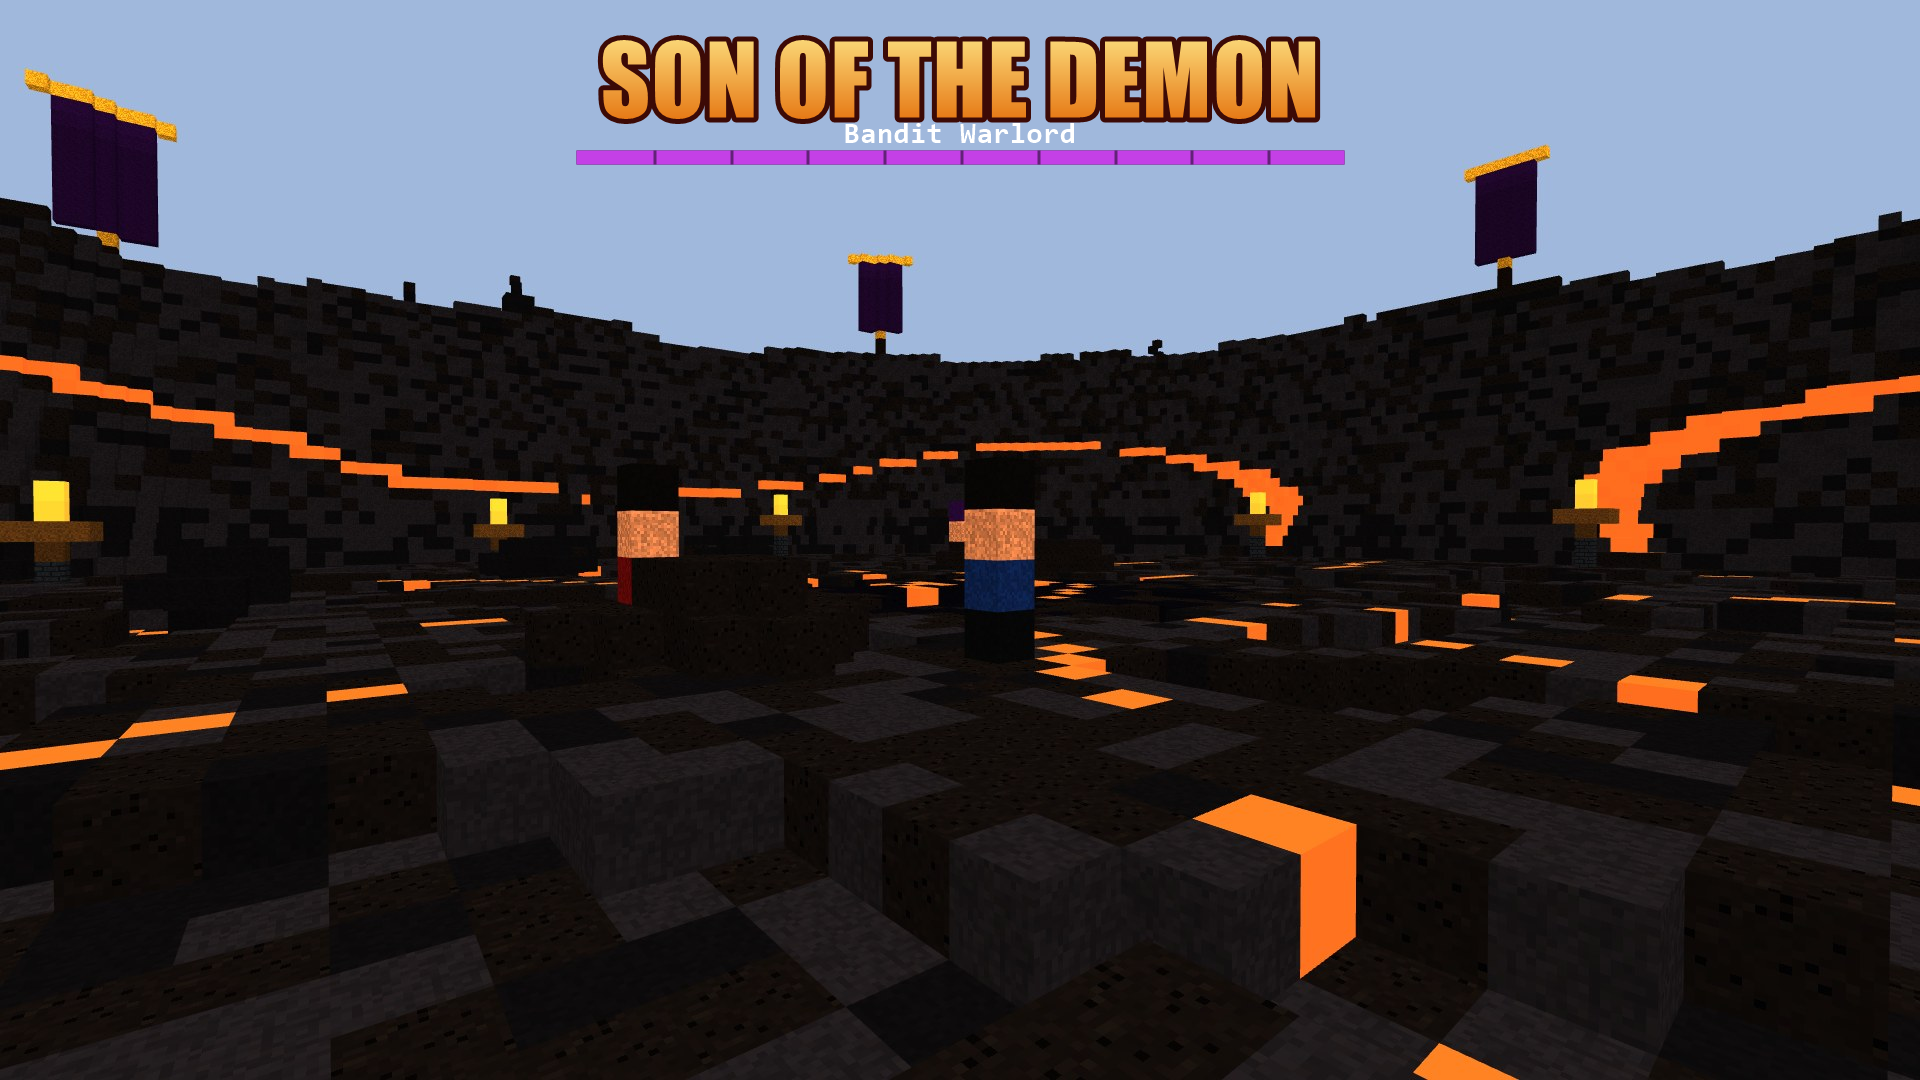
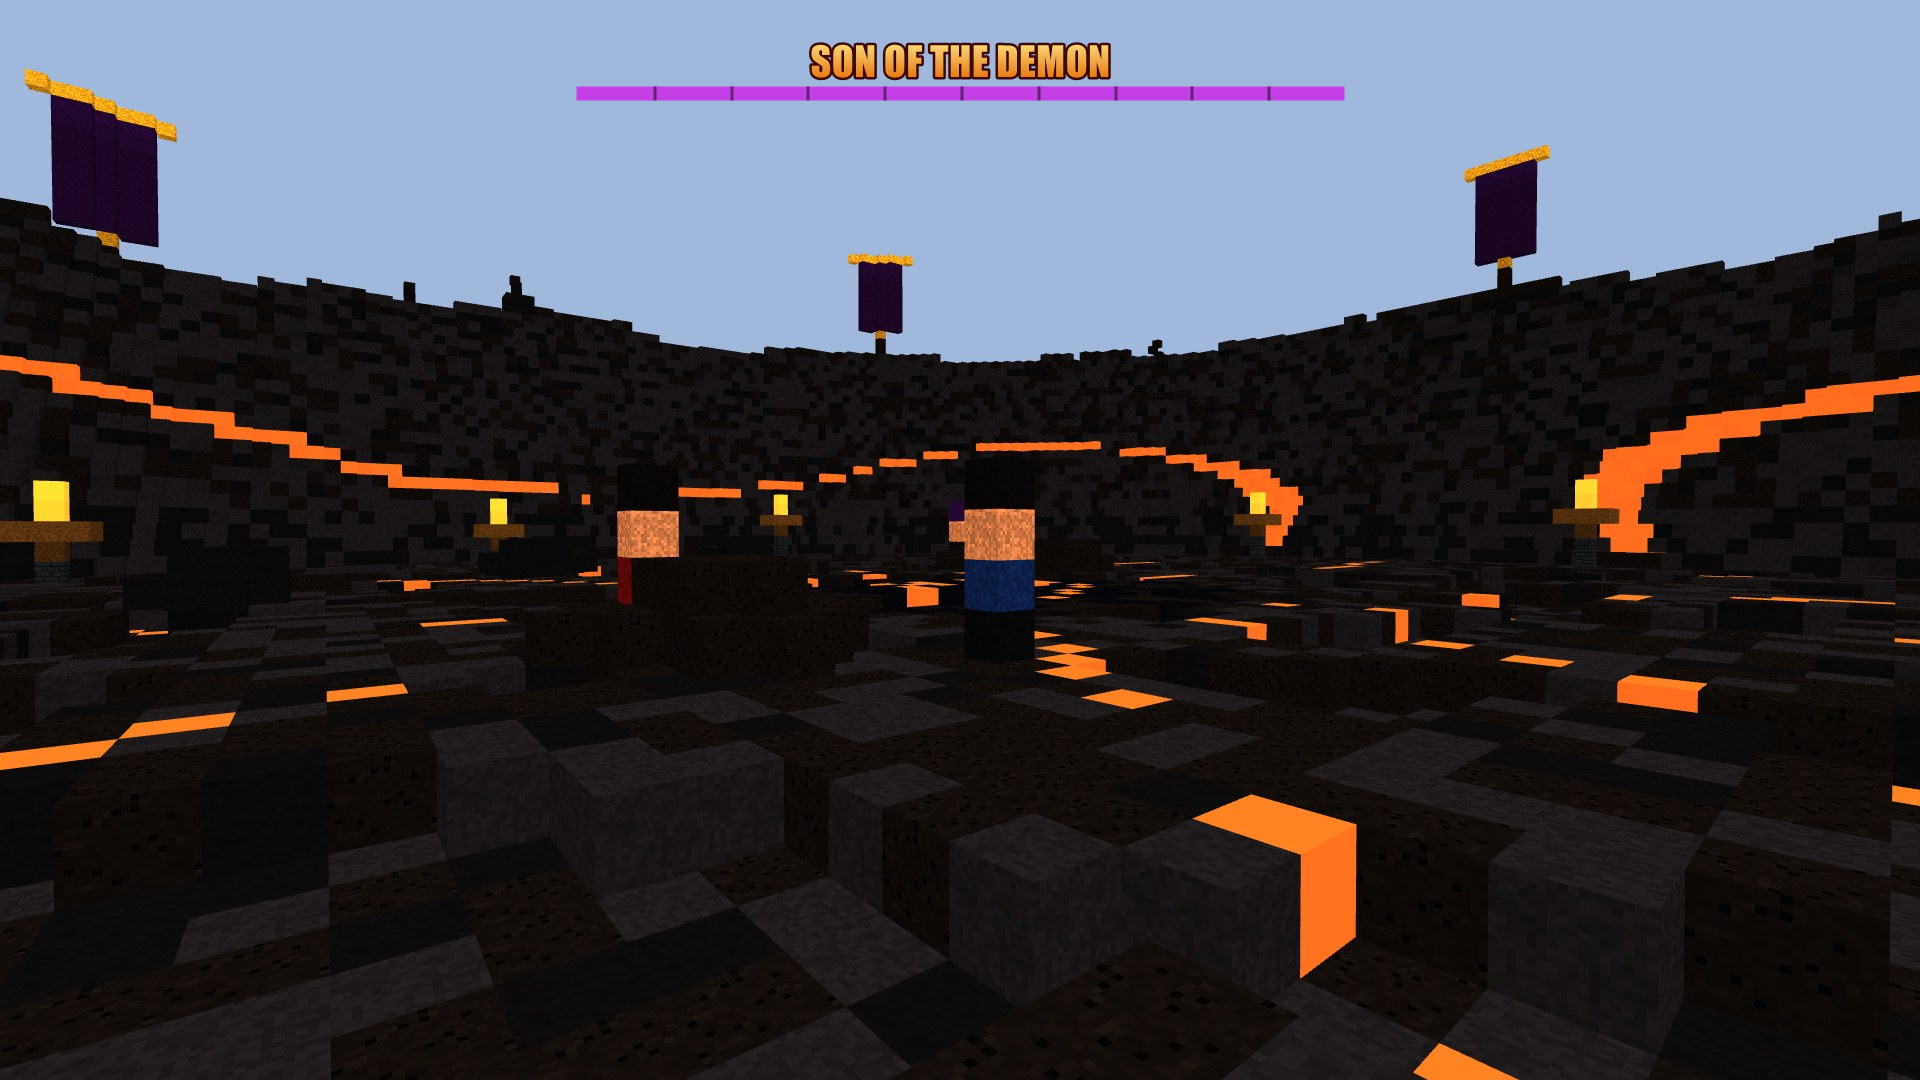
Make the Son of the Demon's title small and alone over the boss bar

Changed region(s): [[0.2812, 0.0306, 0.7188, 0.1528]]

diff --git a/docs/mobs/bandit-warlord.md b/docs/mobs/bandit-warlord.md
@@ -183,8 +183,8 @@ Profils : [poing](images/warlord-mountain_crusher-side.gif), [brise-terre](image
 **En jeu (proposition)** : la montée est une illusion de caméra. Le météore est construit dans le ciel au-dessus du camp
 (vers y 230) pendant les plans 1 à 7 (réparti sur les ticks, comme le cratère) ; pendant le plan 9, quand la caméra
 traverse les nuages, les joueurs et le colosse sont portés dans sa cuvette ; le cratère du camp, en bas, reste tel quel.
-Pendant les 30 s, personne ne bouge ni ne prend de coups. Le titre « Son of the Demon » remplace son nom sur la barre de
-boss pour toute la seconde phase.
+Pendant les 30 s, personne ne bouge ni ne prend de coups. Le titre « Son of the Demon », petit, remplace son nom au-dessus
+de la barre de boss pour toute la seconde phase (Enzo : sans « Bandit Warlord », bien plus petit).
 
 ## Questions pour Enzo
 
